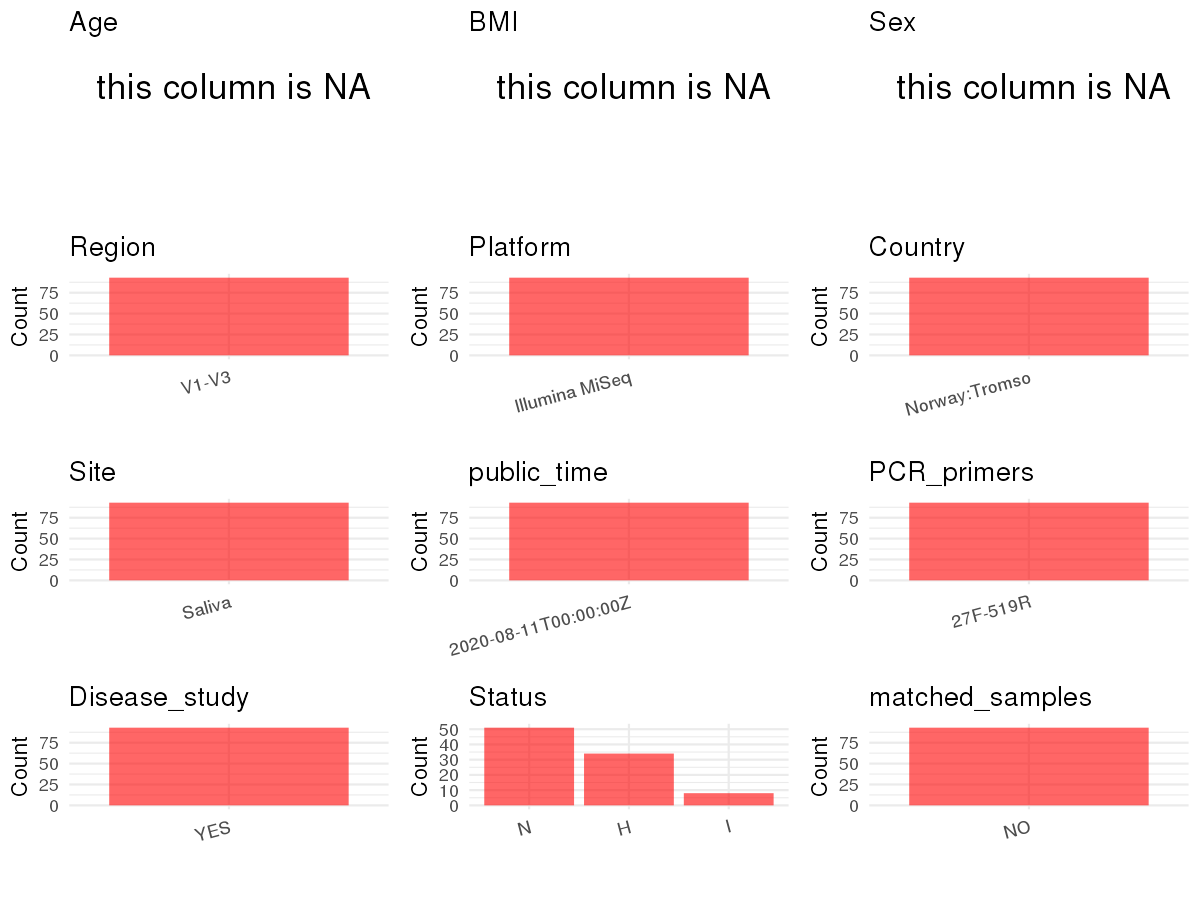
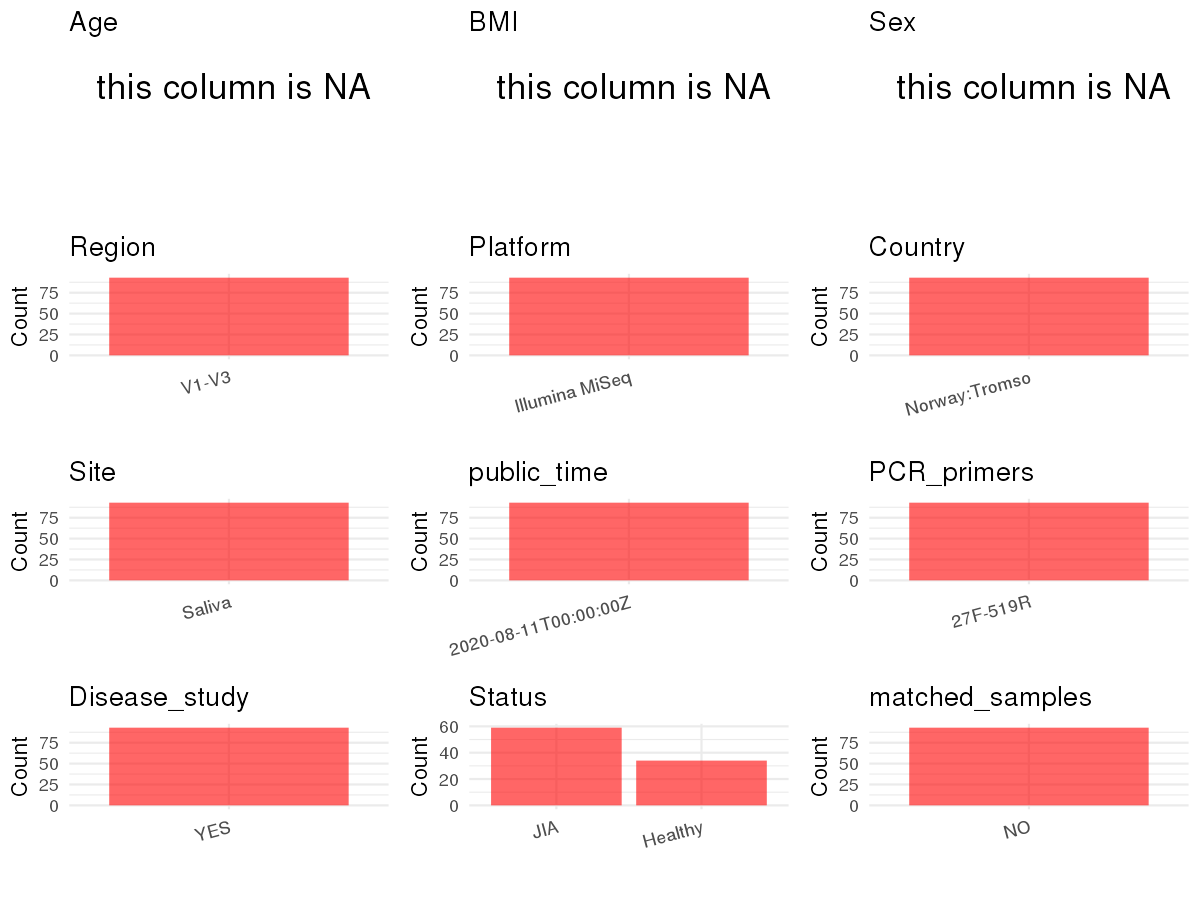
Upload files by Biaodong

Changed region(s): [[0.4625, 0.8089, 0.6475, 0.9333], [0.37, 0.8089, 0.4317, 0.9022], [0.4317, 0.9022, 0.4625, 0.9333]]

diff --git a/data/projects/PRJNA605805/metadata_curation.md b/data/projects/PRJNA605805/metadata_curation.md
@@ -138,7 +138,7 @@ metadata$title <- "Salivary Oral Microbiome of Children With Juvenile Idiopathic
 metadata$Disease_study <- "YES"
 
 # Assign disease status based on sample_name patterns
-metadata$Status <- substr(initial_meta$Sample.Name, 1, 1)
+metadata$Status <- sapply(strsplit(initial_meta$sample_id, " "), function(x) x[3])
 metadata$matched_samples <- "NO"
 ```
 
@@ -202,13 +202,13 @@ head(metadata)
     ## 4 Salivary Oral Microbiome of Children With Juvenile Idiopathic Arthritis: A Norwegian Cross-Sectional Study
     ## 5 Salivary Oral Microbiome of Children With Juvenile Idiopathic Arthritis: A Norwegian Cross-Sectional Study
     ## 6 Salivary Oral Microbiome of Children With Juvenile Idiopathic Arthritis: A Norwegian Cross-Sectional Study
-    ##   Disease_study Status matched_samples
-    ## 1           YES      N              NO
-    ## 2           YES      N              NO
-    ## 3           YES      N              NO
-    ## 4           YES      H              NO
-    ## 5           YES      N              NO
-    ## 6           YES      N              NO
+    ##   Disease_study  Status matched_samples
+    ## 1           YES     JIA              NO
+    ## 2           YES     JIA              NO
+    ## 3           YES     JIA              NO
+    ## 4           YES Healthy              NO
+    ## 5           YES     JIA              NO
+    ## 6           YES     JIA              NO
 
 ## Notes for Students:
 
